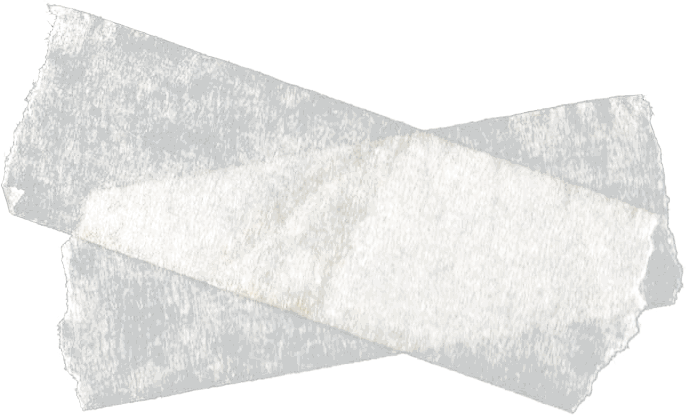
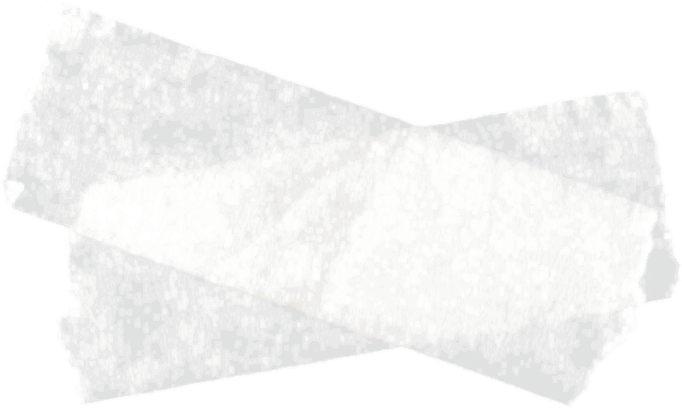
Fix texture application: paper now reads, tape fringe gone, collage z-order
- paper scans were invisible under soft-light; the scan is now on .leaf
  itself, multiplied onto the warm tint, so fibre/creases/foxing actually
  show. ::before is just the directional surface light now.
- tape "black border" was the box-shadow + hard alpha edge: reprocessed the
  tape PNGs with an eroded/softened alpha, and .tape/.tape.x/.strip lost
  the box-shadow + dashed borders (drop-shadow + multiply only).
- stains get z-index:0 (under collages/clippings); .collage z-index:1.
- .clipping / .frontpage are NEWSPRINT now — cooler, greyer, own grain
  (paper-white scan), grayscale+contrast, clearly a separate sheet laid
  on top rather than the same paper as the leaf. p.358 uses the shared
  style. Added img/tex/paper-white.jpg (Max's bonus) + stain-2/3/drip vars.
- removed the "back" link from ledger/index.html (the first Ledger page).

diff --git a/ledger/ledger.css b/ledger/ledger.css
@@ -37,11 +37,15 @@
   --tex-paper-wrong:url("../img/tex/bg-wrong.jpg");
   --tex-paper-alt1: url("../img/tex/paper-alt1.jpg");
   --tex-paper-alt2: url("../img/tex/paper-alt2.jpg");
+  --tex-paper-white:url("../img/tex/paper-white.jpg");
   --tex-desk:       url("../img/tex/desk.jpg");
   --tex-tape:       url("../img/tex/tape-strip.png");
   --tex-tape-x:     url("../img/tex/tape-cross.png");
   --tex-stain:      url("../img/tex/stain-1.png");
+  --tex-stain-2:    url("../img/tex/stain-2.png");
+  --tex-stain-3:    url("../img/tex/stain-3.png");
   --tex-stain-ring: url("../img/tex/stain-ring.png");
+  --tex-stain-drip: url("../img/tex/black-drip.png");
   --tex-bleed:      url("../img/tex/paper-bleedthrough.jpg");
 
   /* stacked grain: two frequencies of paper fibre */
@@ -89,11 +93,15 @@ a{color:var(--blue)}
   position:relative;z-index:1;isolation:isolate;
   max-width:760px;margin:64px auto;padding:52px 58px 60px;
   color:var(--ink);
+  /* the paper photo is the surface, multiplied onto a warm tint so its
+     fibre / creases / foxing actually read */
   background-color:var(--paper);
-  background-image:linear-gradient(180deg, var(--paper-hi), var(--paper) 40%, var(--paper-lo));
+  background-image:var(--tex-paper), linear-gradient(180deg, var(--paper-hi), var(--paper) 42%, var(--paper-lo));
+  background-size:cover, auto;
+  background-position:center;
+  background-repeat:no-repeat, no-repeat;
+  background-blend-mode:multiply;
   border:1px solid var(--paper-deep);
-  /* light from top-left. tight contact shadow + progressively softer/longer
-     cast shadow offset bottom-right + a faint warm bounce on the lit side */
   box-shadow:
     0 1px 0 rgba(255,255,255,.3) inset,
     0 2px 3px rgba(0,0,0,.45),
@@ -102,17 +110,15 @@ a{color:var(--blue)}
     30px 66px 120px rgba(0,0,0,.42),
     -14px -8px 40px rgba(255,236,198,.05);
 }
-/* under the text: directional surface light + the paper scan + fibre */
+/* under the text: directional surface light only (paper is on .leaf now) */
 .leaf::before{
   content:"";position:absolute;inset:0;z-index:-1;pointer-events:none;
   background:
-    linear-gradient(125deg, rgba(255,248,226,.2), transparent 36%, rgba(52,34,14,.12) 96%),
-    var(--tex-paper),
-    var(--fibre-b),
-    var(--fibre-a);
-  background-size:100% 100%, cover, auto, auto;
-  background-repeat:no-repeat, no-repeat, repeat, repeat;
-  background-blend-mode:soft-light, soft-light, overlay, overlay;
+    linear-gradient(125deg, rgba(255,248,226,.22), transparent 34%, rgba(52,34,14,.14) 96%),
+    var(--fibre-b), var(--fibre-a);
+  background-size:100% 100%, auto, auto;
+  background-repeat:no-repeat, repeat, repeat;
+  background-blend-mode:soft-light, overlay, overlay;
 }
 /* over everything, handwriting included: the aging (no fixed stain here —
    stains are opt-in per leaf via <span class="stain">) */
@@ -222,19 +228,17 @@ a{color:var(--blue)}
 .xrefs .lead{font-family:'IM Fell English SC',serif;letter-spacing:2px;font-size:11px;color:var(--ink-soft);display:block;margin-bottom:2px}
 
 /* ---------- tape / clip / pin ---------- */
-.tape{position:absolute;width:128px;height:34px;
-  background:var(--tex-tape), var(--tape);
-  background-size:cover;background-blend-mode:multiply;
-  mix-blend-mode:multiply;opacity:.92;
-  box-shadow:0 1px 3px rgba(0,0,0,.22);
-  border-left:1px dashed rgba(255,255,255,.25);border-right:1px dashed rgba(255,255,255,.25)}
+.tape{position:absolute;width:132px;height:36px;
+  background:var(--tex-tape) center/100% 100% no-repeat;
+  mix-blend-mode:multiply;opacity:.82;
+  filter:drop-shadow(1px 2px 1px rgba(0,0,0,.28))}
 .tape.tl{top:-15px;left:-26px;transform:rotate(-40deg)}
 .tape.tr{top:-15px;right:-26px;transform:rotate(41deg)}
 .tape.bl{bottom:-15px;left:-22px;transform:rotate(46deg)}
 .tape.br{bottom:-15px;right:-22px;transform:rotate(-43deg)}
 .tape.v{width:34px;height:150px}
-.tape.x{width:96px;height:96px;background:var(--tex-tape-x) center/contain no-repeat;
-  mix-blend-mode:multiply;border:0;box-shadow:none}
+.tape.x{width:100px;height:100px;background:var(--tex-tape-x) center/contain no-repeat;
+  mix-blend-mode:multiply;opacity:.82;border:0;filter:drop-shadow(1px 2px 1px rgba(0,0,0,.28))}
 .pin{position:absolute;width:16px;height:16px;border-radius:50%;
   background:radial-gradient(circle at 35% 30%, #f2b6b0, #b23a2c 60%, #7c1d12);
   box-shadow:0 3px 5px rgba(0,0,0,.5)}
@@ -250,16 +254,19 @@ a{color:var(--blue)}
   background:radial-gradient(circle at 38% 34%,#a2321f,#5c150c 72%);
   box-shadow:0 2px 6px rgba(0,0,0,.5), inset 0 -4px 6px rgba(0,0,0,.4)}
 
-/* a stain dropped on a leaf — <span class="stain ring" style="left:60%;top:20%"></span> */
-.stain{position:absolute;width:200px;height:200px;pointer-events:none;
-  background:var(--tex-stain) center/contain no-repeat;mix-blend-mode:multiply;opacity:.5}
-.stain.ring{background-image:var(--tex-stain-ring);width:260px;height:260px;opacity:.42}
+/* a stain dropped on a leaf — sits UNDER collages/clippings, over the paper */
+.stain{position:absolute;z-index:0;width:220px;height:220px;pointer-events:none;
+  background:var(--tex-stain) center/contain no-repeat;mix-blend-mode:multiply;opacity:.55}
+.stain.ring{background-image:var(--tex-stain-ring);width:280px;height:280px;opacity:.5}
+.stain.s2{background-image:var(--tex-stain-2)}
+.stain.s3{background-image:var(--tex-stain-3);width:300px;height:340px}
+.stain.drip{background-image:var(--tex-stain-drip);width:180px;height:360px;opacity:.6}
 
 /* ---------- collage — the core Ledger move ----------
    a base area, torn photo/paper fragments glued onto it at angles, a strip of
    tape over the seam, and handwriting that runs ACROSS everything, often up the
    tape. Model of the "Extra collages" reference. */
-.collage{position:relative;margin:18px 0;min-height:220px}
+.collage{position:relative;z-index:1;margin:18px 0;min-height:220px}
 .frag{position:absolute;background:#fdf9ec;padding:6px;
   box-shadow:0 5px 14px rgba(0,0,0,.5);}
 .frag img,.frag .void{display:block;width:100%}
@@ -270,19 +277,29 @@ a{color:var(--blue)}
 .frag.p1{left:2%;top:12%;width:52%;transform:rotate(-2.5deg)}
 .frag.p2{right:6%;top:0;width:40%;transform:rotate(2deg);filter:grayscale(1) contrast(.9)}
 .frag.p3{left:26%;bottom:0;width:44%;transform:rotate(1.4deg)}
-.collage .strip{position:absolute;right:14%;top:-6%;width:36px;height:112%;
-  background:var(--tex-tape), var(--tape);background-size:cover;background-blend-mode:multiply;
-  mix-blend-mode:multiply;transform:rotate(2deg);opacity:.9}
+.collage .strip{position:absolute;right:14%;top:-6%;width:40px;height:112%;
+  background:var(--tex-tape) center/100% 100% no-repeat;
+  mix-blend-mode:multiply;transform:rotate(2deg);opacity:.82;
+  filter:drop-shadow(1px 2px 1px rgba(0,0,0,.25))}
 .collage .scrawl{position:absolute;right:12%;top:8%;
   font-family:'Caveat',cursive;font-size:19px;color:var(--blue);
   writing-mode:vertical-rl;transform:rotate(4deg);text-shadow:0 0 2px rgba(240,230,200,.4)}
 .collage .cap{position:absolute;left:2%;bottom:-24px;font-family:'Caveat',cursive;color:var(--red);font-size:17px;transform:rotate(-2deg)}
 
-/* a taped-in clipping */
-.clipping{background:#efe9d6;border:1px solid #cabf9e;padding:12px 14px;margin:14px 0;position:relative;
-  font-family:'IM Fell English',serif;box-shadow:0 3px 8px rgba(0,0,0,.3);transform:rotate(-.8deg)}
+/* a taped-in clipping — NEWSPRINT, distinct from the leaf paper: cooler,
+   greyer, its own grain, and clearly a separate sheet laid on top */
+.clipping,.frontpage{position:relative;z-index:1;margin:16px 0;
+  background-color:#d9d3c4;
+  background-image:var(--tex-paper-white), linear-gradient(180deg,#e2ddce,#cfc8b6);
+  background-size:cover,auto;background-blend-mode:multiply;
+  color:#2b2822;
+  border:1px solid #b3ab98;
+  box-shadow:0 6px 18px rgba(0,0,0,.45), inset 0 0 30px rgba(120,110,90,.25);
+  filter:grayscale(.35) contrast(1.05);
+  transform:rotate(-.8deg)}
+.clipping{padding:12px 14px;font-family:'IM Fell English',serif}
 .clipping .head{font-family:'IM Fell English SC',serif;font-size:15px;letter-spacing:1px;margin-bottom:4px}
-.clipping .body{font-size:12.5px;line-height:1.6;color:#3a3120}
+.clipping .body{font-size:12.5px;line-height:1.6;color:#33302a}
 
 /* ---------- redaction ---------- */
 .redact{background:#171009;color:transparent;padding:0 5px;user-select:none;border-radius:1px}

diff --git a/ledger/p358.html b/ledger/p358.html
@@ -7,9 +7,8 @@
 <title>△ p.358</title>
 <link rel="stylesheet" href="ledger.css">
 <style>
-  .frontpage{position:relative;background:#efe7d2;border:1px solid #c7bb98;
-    padding:16px 18px;margin:14px 0;box-shadow:0 6px 18px rgba(0,0,0,.45);transform:rotate(-.7deg);
-    background-image:var(--fibre-a)}
+  /* base .frontpage styling is shared in ledger.css (newsprint); page-local bits only */
+  .frontpage{padding:16px 18px}
   .frontpage .masthead{font-family:'IM Fell English SC',serif;font-size:26px;letter-spacing:3px;
     text-align:center;border-bottom:3px double #3a3120;padding-bottom:6px;color:#2a2016}
   .frontpage .dateline{display:flex;justify-content:space-between;font-family:'Special Elite';

diff --git a/ledger/index.html b/ledger/index.html
@@ -8,7 +8,6 @@
 <link rel="stylesheet" href="ledger.css">
 </head>
 <body>
-<a class="backlink" href="../notcrazy.html">&larr; back</a>
 
 <article class="leaf tilt">
   <span class="pagenum">p. 9</span>
